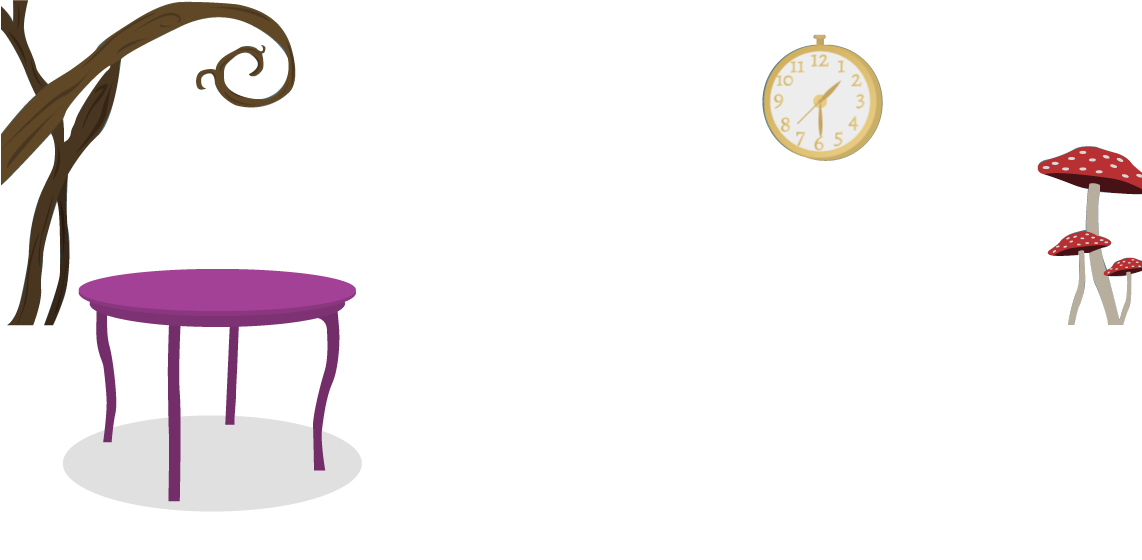
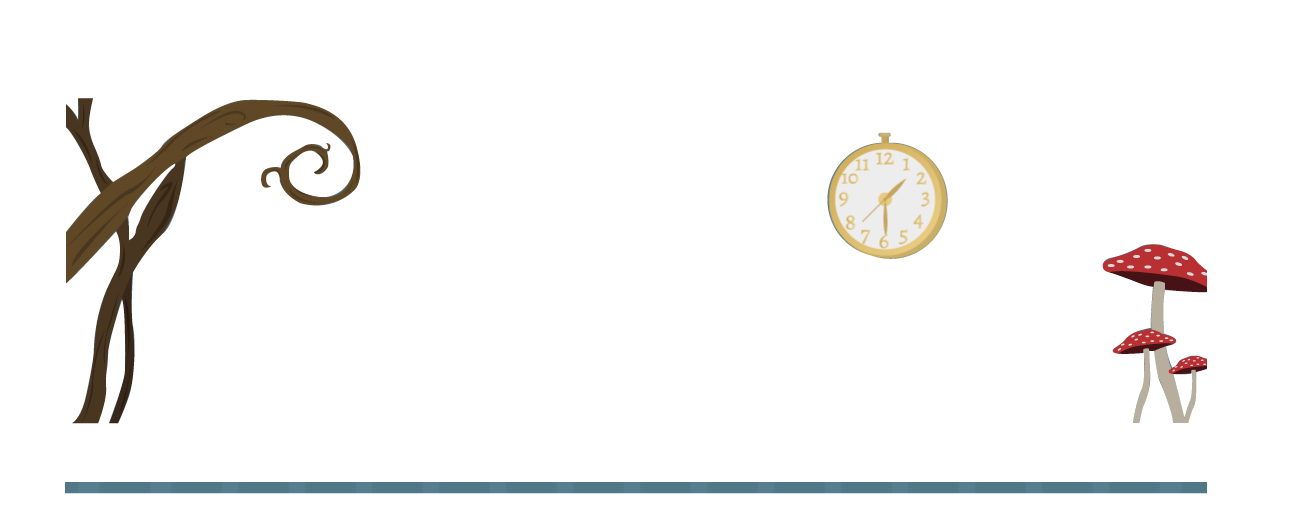
parallax medio melo

Changed region(s): [[0.0, 0.0, 0.9194, 0.9575], [0.8275, 0.2471, 1.0, 0.834], [0.613, 0.0618, 0.7968, 0.4942]]

diff --git a/Model/Cuento.js b/Model/Cuento.js
@@ -2,7 +2,8 @@ let escena =[];
 let cargar = [];
 
 let fondoCuento;
- let fondoDosCuento;
+let fondoDosCuento;
+let fondoTresCuento;
 
 let aliciaa;
 let galletaa;
@@ -22,11 +23,8 @@ class Cuento {
             ellipse(20,20,20,20);
             alicia = [2]
 
-
-            
         }
 
-      
 
     }
     //var x= "1.2.3";
@@ -38,33 +36,39 @@ class Cuento {
 
 
     //fondos
-    fondoCuento = new Fondo(-221,140);
-    fondoDosCuento = new FondoDos (0,140);
+    fondoTresCuento = new FondoTres(-400,141);
+    fondoDosCuento = new FondoDos(-308,43);
+    fondoCuento = new Fondo(-500,351);
 
     //elementos
     aliciaa = new Alicia (550, 300);
     galletaa = new Galleta (220, 365);
     llavee = new Llave (280, 410);
     pocioon = new Pocion (120, 290);
-    puertaa = new Puerta (400, 325);
+    puertaa = new Puerta (400, 326);
 
 
  }
 
     drawCuento() {
+        //fondos
+        fondoTresCuento.drawFondo();
+        fondoDosCuento.drawFondo();
         fondoCuento.drawFondo();
+
+        //titulo
         imageMode(CENTER);
         image(this.titulo,450,50);
         imageMode(CORNER);
         fill(255);
         text(this.escena,30,100);
-        puertaa.drawElemento();
-        puertaa.drawElemento();
-        fondoDosCuento.drawFondo();
-        aliciaa.drawElemento();
+
+        //elementos
+        /*puertaa.drawElemento();
         galletaa.drawElemento();
         llavee.drawElemento();
-        pocioon.drawElemento();
+        pocioon.drawElemento();*/
+        aliciaa.drawElemento();
 
        
 
@@ -73,6 +77,7 @@ class Cuento {
     moverCuento() {
         fondoCuento.mover();
         fondoDosCuento.mover();
+        fondoTresCuento.mover();
 
     }
 

diff --git a/Model/FondoTres.js b/Model/FondoTres.js
@@ -1,35 +1,35 @@
-let imagenFondoDos;
+let imagenFondoTres;
 
-class FondoDos extends Parallax{
+class FondoTres extends Parallax{
     constructor (posX, posY) {
         super (posX, posY);
         this.posX = posX;
         this.posY = posY;
-        this.vel = 2;
+        this.vel = 1;
 
-        imagenFondoDos = loadImage("images/FondoDos.png");
+        imagenFondoTres = loadImage("images/FondoTres.png");
     }
 
     drawFondo () {
-        image(imagenFondoDos, this.posX, this.posY);
+        image(imagenFondoTres, this.posX, this.posY);
     }
 
    mover() {
         if(mouseX <= 200){
-            if(this.posX >= -70){
+            if(this.posX >= 0){
             }else{
                 this.posX += this.vel;
             }
         }
     
         if(mouseX >= 700){
-            if(this.posX < -305){     
+            if(this.posX < -400){     
             }else{
                 this.posX -= this.vel; 
             }  
         }
     
         //console.log(this.vel);
-        console.log(this.posX);
+        //console.log(this.posX);
     }
 }

diff --git a/Model/Fondo.js b/Model/Fondo.js
@@ -5,7 +5,7 @@ class Fondo extends Parallax {
         super (posX, posY); 
         this.posX = posX;
         this.posY = posY;
-        this.vel = 2;
+        this.vel = 3;
 
         fondoImagen = loadImage ("images/Fondo.png");
     }
@@ -24,13 +24,13 @@ class Fondo extends Parallax {
         }
     
         if(mouseX >= 700){
-            if(this.posX < -221){     
+            if(this.posX < -400){     
             }else{
                 this.posX -= this.vel; 
             }  
         }
     
-        console.log(this.vel);
+        //console.log(this.vel);
         console.log(this.posX);
     }
 }

diff --git a/index.html b/index.html
@@ -11,6 +11,7 @@
     <script src="model/Parallax.js"></script>
     <script src="model/Fondo.js"></script>
     <script src="model/FondoDos.js"></script>
+    <script src="model/FondoTres.js"></script>
     <script src="model/Galleta.js"></script>
     <script src="model/Llave.js"></script>
     <script src="model/Pocion.js"></script>
